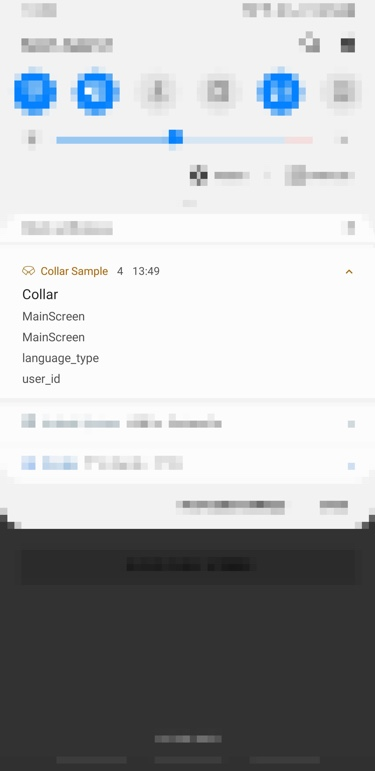
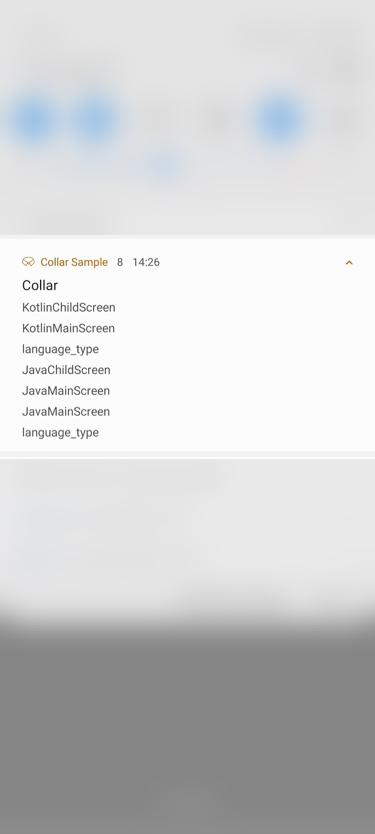
Update README

diff --git a/README.md b/README.md
@@ -254,7 +254,11 @@ collar {
 }
 ```        
 You can set a specific _Collar_ version to be used.
+
 ## Debug UI
+
+![UI](ui.jpg)
+
 A separate package and no-op package is provided if you want to visually track what has been sent through Collar.  
 You can search, filter and clear all sent analytics.  
 In your app `build.gradle` or `build.gradle.kts` add:
@@ -271,7 +275,7 @@ releaseImplementation("co.infinum.collar:collar-ui-no-op:1.1.5")
 
 In order to start tracking with UI you must use _LiveCollector_ as in this example:
 ```kotlin
- Collar.attach(object : LiveCollector(true, false) {
+ Collar.attach(object : LiveCollector() {
 
     override fun onScreen(screen: Screen) =
         super.onScreen(screen).run {
@@ -289,10 +293,11 @@ In order to start tracking with UI you must use _LiveCollector_ as in this examp
         }
 })
 ```
-If you put the first parameter *showSystemNotification* as *true* in *LiveCollector*, a notification will show once analytics are gathered and clicking on it will open a dedicated screen.  
-Second parameter *showInAppNotification* with value *true* in *LiveCollector* will show a Snackbar-ish popup once analytics are gathered inside the current running Activity.  
+_LiveCollector_ constructor has a _Configuration_ parameter that consists of following members.
+If you put the first parameter *showSystemNotification* as *true* in *Configuration*, a notification will show once analytics are gathered and clicking on it will open a dedicated screen.  
+Second parameter *showInAppNotification* with value *true* in *Configuration* will show a Snackbar-ish popup once analytics are gathered inside the current running Activity.  
 These parameters are default values per collector session but can be changed via _CollarActivity_ menu and will remain valid until the next session.  
-Otherwise if set to *false* notification will **not** be shown but you can always run the UI with following command of getting the launch Intent:
+Otherwise if set to *false* notification will **not** be shown but you can always run the UI with following command of getting the launch Intent instead of clicking the actual notification:
 ```kotlin
     startActivity(
         CollarUi.launchIntent().apply {
@@ -300,12 +305,19 @@ Otherwise if set to *false* notification will **not** be shown but you can alway
         }
     )
 ```
-Also you can use a dedicated method with default Intent setup:
+Alternatively, you can use a dedicated method with default Intent setup:
 ```kotlin
     CollarUi.show()
 ```
+Third parameter in *Configuration* is a set of keywords to redact if found in screen names, analytics events names and parameters and user properties names or values.
 
-![Notification](notification.jpg)![UI](ui.jpg)
+![Notification](notification.jpg) ![In app notification](in_app_notification.jpg)
+
+### Redaction
+In order to prevent potential leaks of user sensitive data, developers have an option to implement a set of keywords to be replaced by a • in length of the matched keyword.  
+This set of keywords is provided to _LiveCollector_ via _Configuration_.  
+
+![Redacted notification](redacted_notification.jpg)![UI](redacted_ui.jpg)
 
 ## Tasks
 ### Generate
@@ -323,8 +335,8 @@ collar {
 }
 ```
 JSON file has to be formatted in the same way as it is in `sample` project module.  
-If you don't want to use this task simply don't specify mandatory data.  
-Using this file is just a temporary and fetching the tracking plan will be implemented soon in future releases.
+If you don't want to use this task simply don't specify data parameters in plugin extension.  
+Using this file is just a temporary solution and fetching the tracking plan will be implemented soon in future releases.
 
 To run the task you can:
 

diff --git a/CHANGELOG.md b/CHANGELOG.md
@@ -6,6 +6,7 @@ Change Log
 _2020-09-01_
 
  * **BREAKING**: Removed activity field from Screen class due to Firebase deprecated _setCurrentScreen_ method.
+ * **BREAKING**: Implement LiveCollector configuration class.
  * Update Kotlin to 1.4.0.
  * Update various dependencies.
  * Implement latest changes on GeneratorTask.
@@ -14,6 +15,7 @@ _2020-09-01_
  * Add Javadoc to exposed classes and methods.
  * Update KotlinPoet to 1.6.0.
  * Update Detekt to 1.11.0.
+ * Implement redaction feature.
 
 ## Version 1.1.5
 
